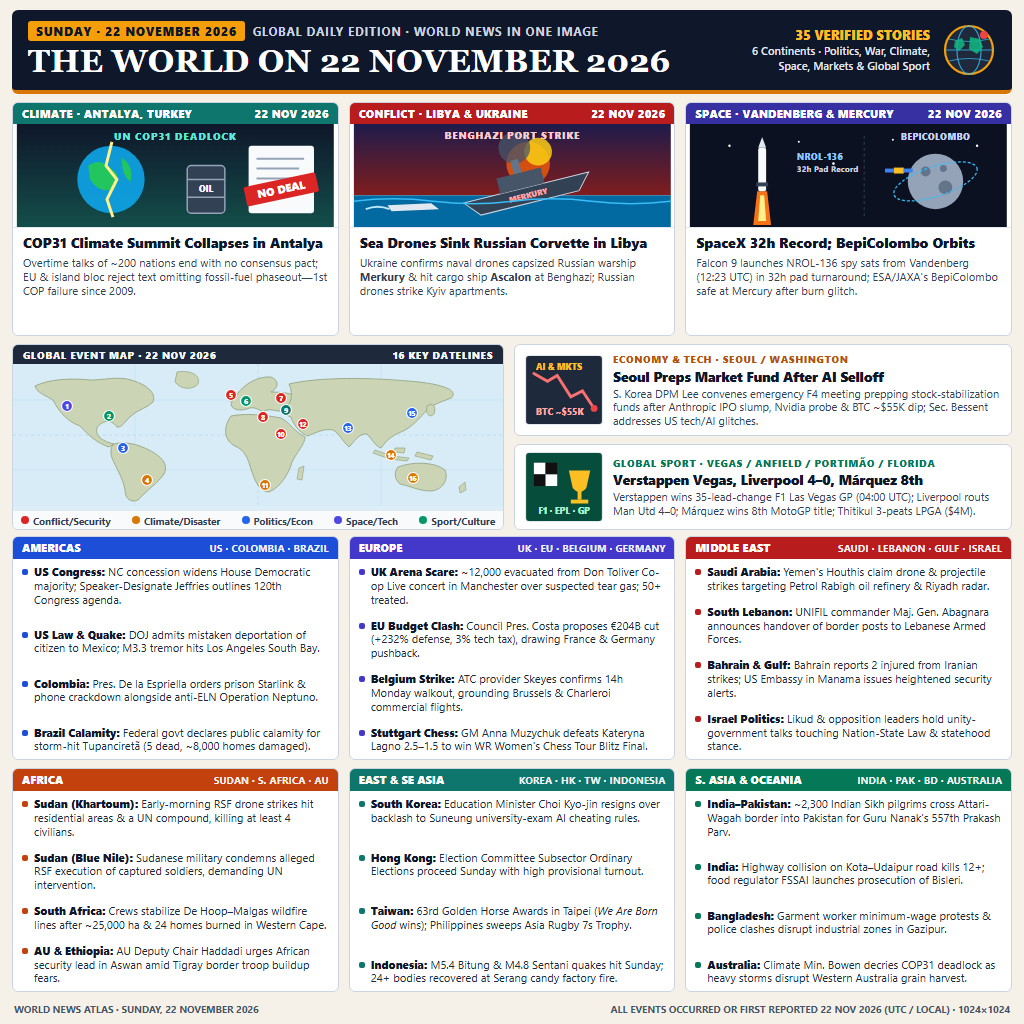
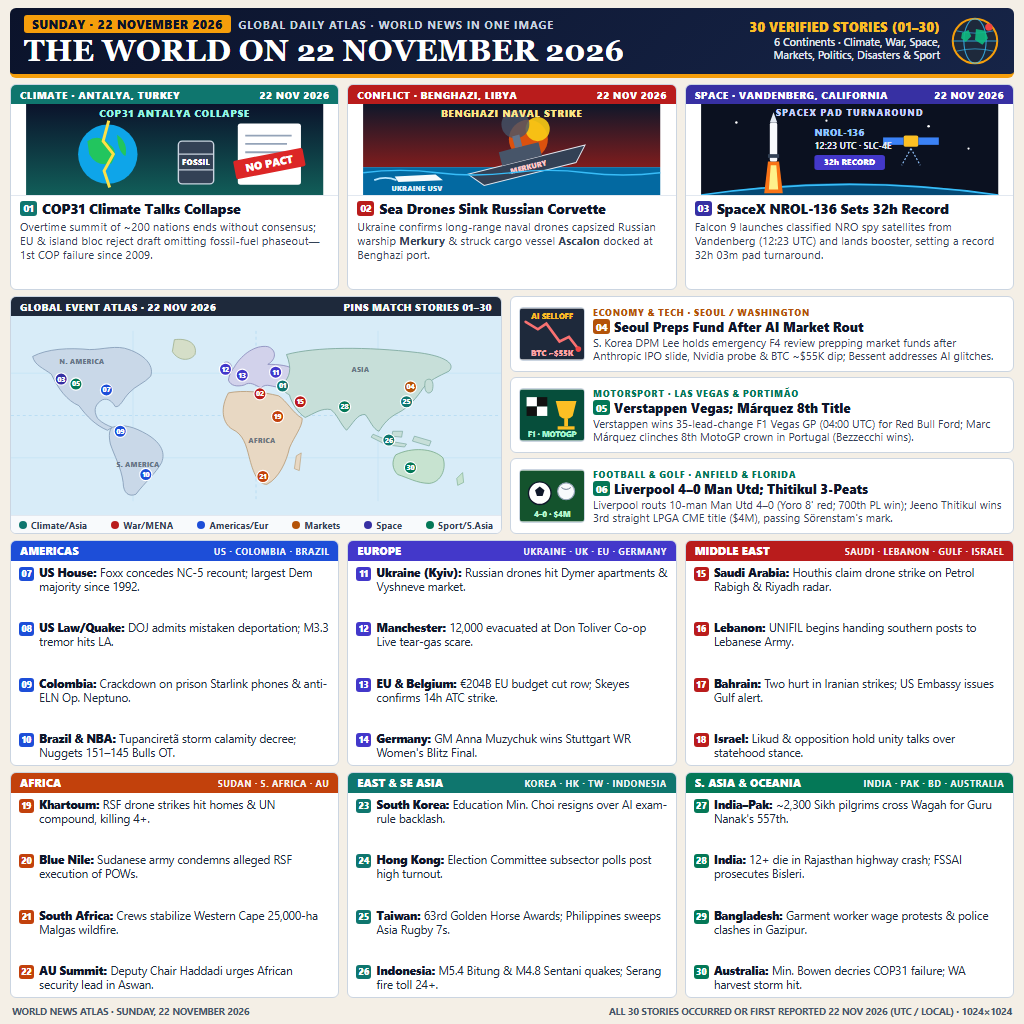
feat: V2 atlas with cross-referenced 30 stories and tightened typography

diff --git a/main.ts b/main.ts
@@ -13,6 +13,9 @@ const pngBytes = readFileSync(join(rootDir, 'entry.png'));
 if (pngBytes.length > MAX_BYTES || pngBytes.subarray(0, 8).compare(PNG_SIG) !== 0) {
   throw new Error(`Invalid PNG deliverable (${pngBytes.length} bytes)`);
 }
+if (pngBytes.subarray(12, 16).toString('ascii') !== 'IHDR') {
+  throw new Error('Missing PNG IHDR header');
+}
 
 const width = pngBytes.readUInt32BE(16);
 const height = pngBytes.readUInt32BE(20);
